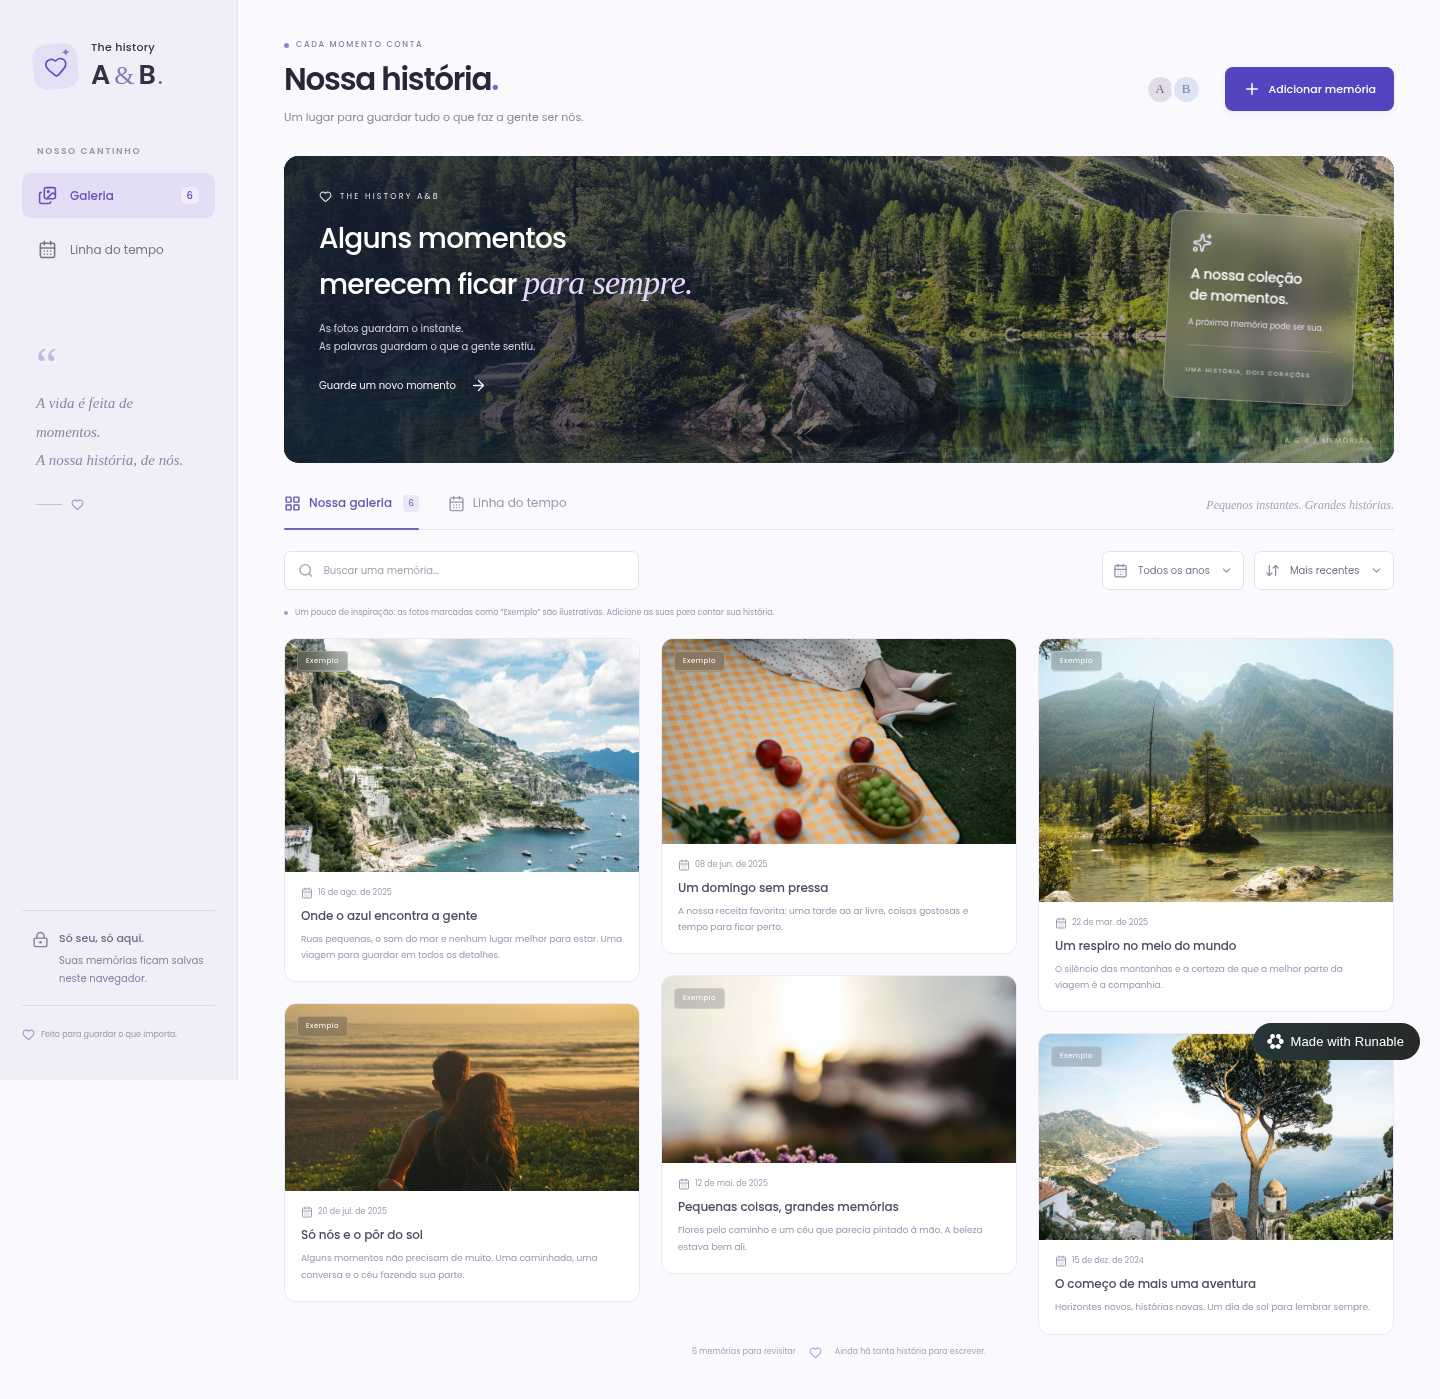
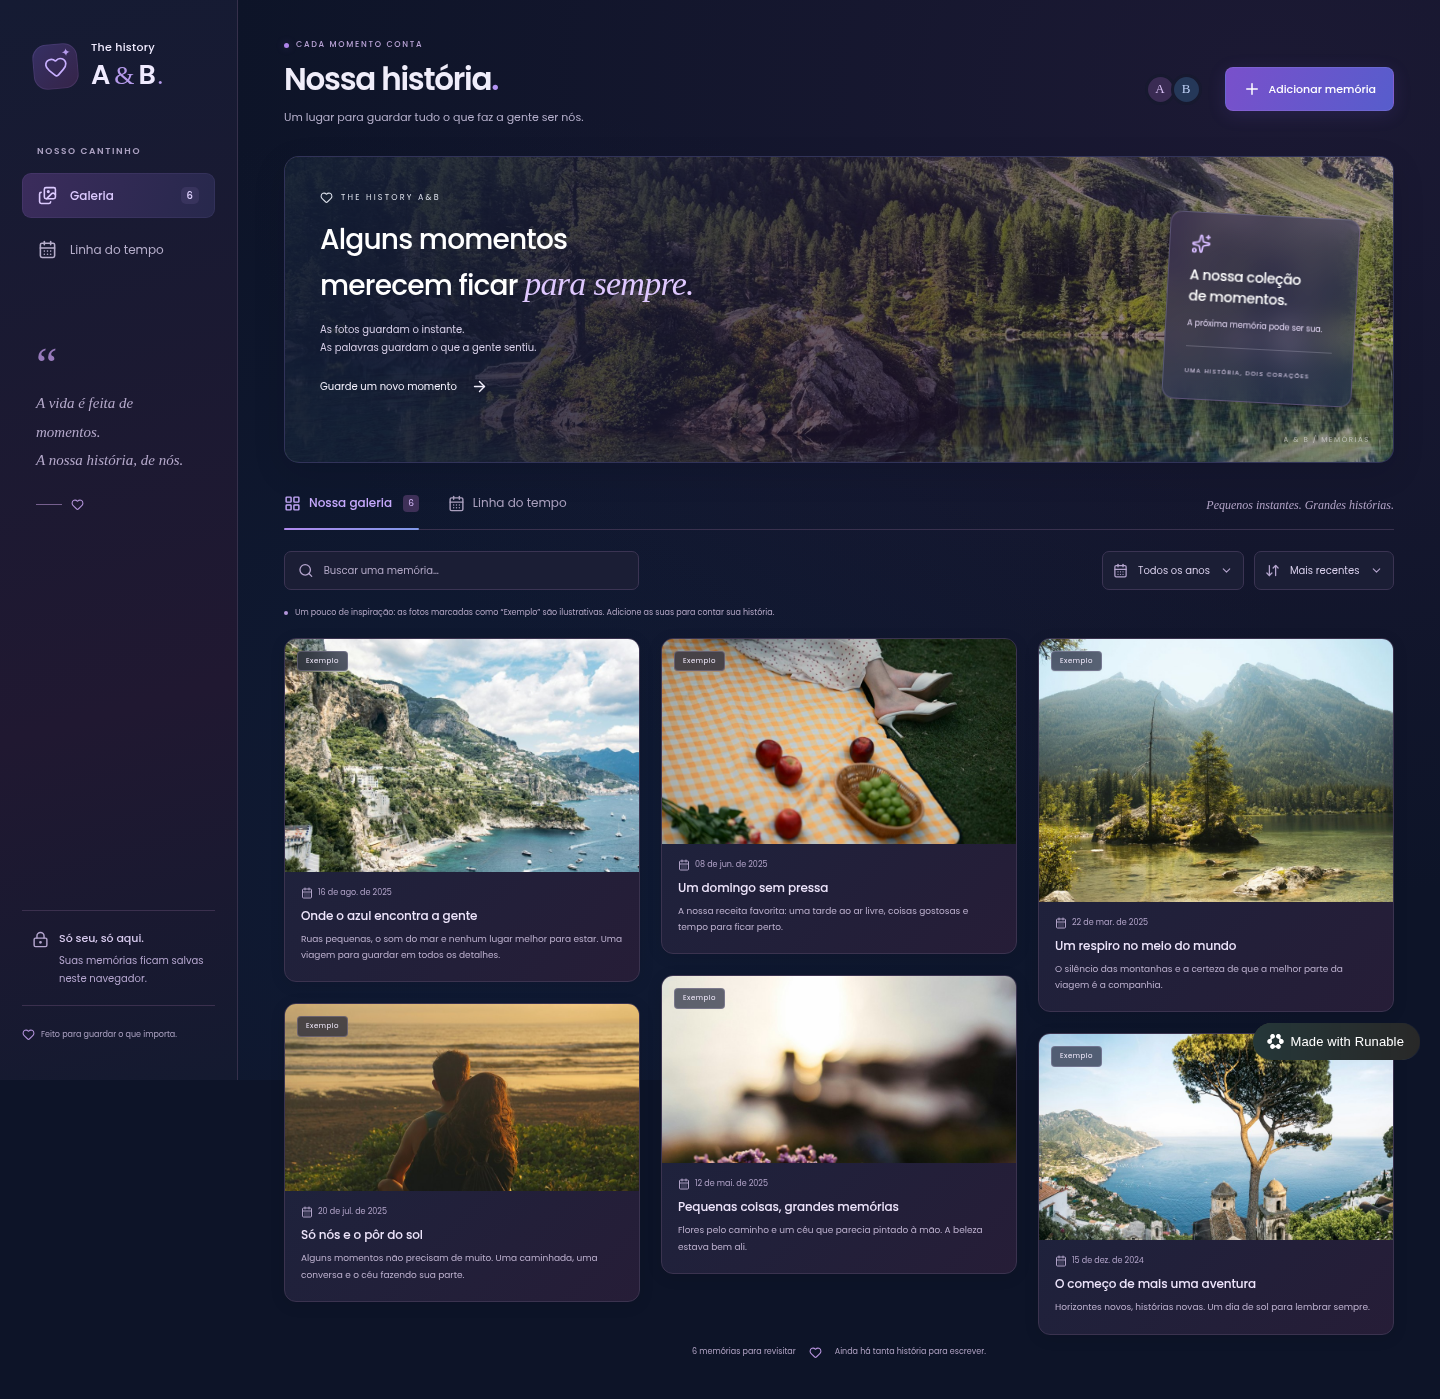
Update from Runable

diff --git a/packages/web/src/web/styles.css b/packages/web/src/web/styles.css
@@ -308,3 +308,144 @@ form textarea{resize:vertical;min-height:110px;line-height:1.8}
 @media(max-width:920px){.gallery{columns:2}.hero-note{display:none}.page-header p{font-size:10px}.main-content{padding:30px 24px}.page-header{gap:12px}.add-button{font-size:10px;padding:11px}.header-eyebrow{font-size:7px}.hero{height:290px}.toolbar{gap:10px}.search-input{width:100%;flex:1}.filter-group{gap:7px}.select-wrap{padding:0 7px}.select-wrap>svg:first-child{display:none}.timeline-card>img,.timeline-placeholder{width:125px}.timeline-card>div:not(.timeline-placeholder){padding:18px}.timeline-card h3{font-size:13px}.collection-tabs{gap:24px}}
 @media(max-width:680px){.sidebar{position:relative;inset:auto;width:100%;height:auto;padding:17px 20px 0;border-right:0;border-bottom:1px solid #e6e0ee;flex-direction:row;align-items:center;justify-content:space-between;gap:18px;background:#f0edf7}.brand{gap:8px;padding:0;margin-bottom:15px}.brand-mark{width:32px;height:32px;border-radius:10px}.brand-mark>svg{width:20px}.brand-spark{font-size:12px;right:3px}.brand>div>span{font-size:8px}.brand strong{font-size:21px;line-height:1.2}.brand strong>span{font-size:20px}.sidebar-section,.sidebar-quote,.sidebar-bottom{display:none}.main-nav{flex-direction:row;gap:13px;align-self:stretch}.main-nav button{padding:0 0 15px;align-self:flex-end;border-radius:0;gap:6px;font-size:10px}.main-nav button.active{background:none;border-bottom:2px solid #8c71c4;margin-bottom:-1px}.main-nav button>svg{width:15px}.nav-count{display:none}.main-content{margin-left:0;padding:26px 20px}.page-header{margin-bottom:23px;align-items:flex-start}.page-header h1{font-size:27px;margin-bottom:7px}.header-eyebrow{font-size:6px}.page-header p{font-size:9px;max-width:200px;line-height:1.8}.header-actions{padding-top:21px}.add-button{font-size:0;gap:0;padding:11px;width:39px;height:39px}.add-button svg{width:19px}.hero{height:288px;border-radius:12px}.hero-copy{left:24px;top:29px}.hero h2{font-size:24px;line-height:1.45}.hero h2 em{font-size:29px}.hero-kicker{font-size:7px}.hero-copy p{font-size:10px}.hero-copy>button{margin-top:21px;font-size:9px}.hero-shade{background:linear-gradient(90deg,#172841db,#17284162)}.hero-corner{font-size:6px;right:16px;bottom:13px}.collection{margin-top:27px}.collection-tabs{gap:26px}.collection-tabs button{font-size:11px;gap:6px;padding-bottom:14px}.collection-tabs button svg{width:15px}.toolbar{flex-wrap:wrap;margin:17px 0 12px;gap:10px}.search-input{max-width:none;flex-basis:100%;height:39px}.filter-group{width:100%;justify-content:space-between;gap:12px}.select-wrap{flex:1;padding:0 10px;justify-content:space-between;height:35px}.select-wrap>svg:first-child{display:block}.select-wrap select{flex:1;font-size:9px}.example-note{font-size:7px;margin-bottom:15px;align-items:flex-start}.example-dot{margin-top:4px}.gallery{column-gap:12px}.memory-card{margin-bottom:13px;border-radius:9px}.photo-wrap{height:178px}.card-1 .photo-wrap,.card-3 .photo-wrap{height:135px}.card-2 .photo-wrap{height:158px}.card-4 .photo-wrap{height:190px}.card-5 .photo-wrap{height:145px}.card-copy{padding:11px}.card-copy h3{font-size:10px;line-height:1.5;margin-top:6px}.card-copy p{font-size:8px;line-height:1.7}.card-date{font-size:7px;gap:4px}.card-date svg{width:10px}.photo-example{top:8px;left:8px;font-size:6px;padding:3px 6px}.collection-footer{gap:8px;font-size:6px;flex-wrap:wrap;margin-top:8px}.collection-footer svg{width:10px}.toast{left:50%;bottom:18px;max-width:calc(100vw - 30px);font-size:10px;padding:12px}.timeline-row{gap:25px;padding-bottom:19px}.timeline-date{width:36px}.timeline-date strong{font-size:19px}.timeline-date span{font-size:9px}.timeline-row:before{left:48px}.timeline-dot{left:43px}.timeline-year{margin-left:61px;font-size:19px;padding-bottom:15px}.timeline-card{flex-direction:column;border-radius:9px}.timeline-card>img,.timeline-placeholder{width:100%;height:150px;min-height:0}.timeline-card>div:not(.timeline-placeholder){padding:15px;width:100%}.timeline-card h3{font-size:12px}.timeline-card p{font-size:9px}.timeline-more{font-size:8px}.modal-inner{padding:21px}.modal-header h2{font-size:19px}.modal-header .eyebrow{font-size:6px}.form-row{flex-direction:column;gap:17px}.form-row>.date-field{flex:auto}.memory-dialog{max-height:calc(100dvh - 24px)}.upload-area{height:150px}.detail-date{font-size:9px;flex-wrap:wrap}.detail-text{font-size:11px}.modal-actions{gap:8px}.modal-actions .primary-button,.modal-actions .secondary-button,.modal-actions .danger-button{font-size:10px;padding:11px}.no-image span{font-size:11px;text-align:center;padding:0 8px}}
 @media(prefers-reduced-motion:reduce){*,*:before,*:after{animation:none!important;transition:none!important;scroll-behavior:auto!important}}
+
+/* Midnight palette — navy and deep purple, across every screen and state. */
+:root{
+  color-scheme:dark;
+  --background:#0d1428;
+  --foreground:#f0edfa;
+  --card:#1b2039;
+  --card-foreground:#f0edfa;
+  --popover:#1b2039;
+  --popover-foreground:#f0edfa;
+  --primary:#7654d9;
+  --primary-foreground:#fff;
+  --secondary:#28243e;
+  --secondary-foreground:#d9d2ee;
+  --muted:#25243a;
+  --muted-foreground:#b5afcb;
+  --accent:#30264c;
+  --accent-foreground:#dfd2ff;
+  --destructive:#a73354;
+  --border:#38334f;
+  --input:#38334f;
+  --ring:#aa8af1;
+  --sidebar:#14172d;
+  --sidebar-foreground:#d9d2ee;
+  --sidebar-primary:#b59af7;
+  --sidebar-primary-foreground:#fff;
+  --sidebar-accent:#30264c;
+  --sidebar-accent-foreground:#dfd2ff;
+  --sidebar-border:#38334f;
+  --sidebar-ring:#aa8af1;
+  --lavender:#30264c;
+}
+body{
+  color:var(--foreground);
+  background:radial-gradient(ellipse at 88% 8%,#39234b55,transparent 58%),radial-gradient(ellipse at 35% 80%,#182e5940,transparent 62%),#0d1428;
+  background-attachment:fixed;
+  scrollbar-color:#514368 #12172b;
+}
+::selection{background:#7955b7;color:#fff}
+button:focus-visible,a:focus-visible{outline-color:#b998ff}
+input:focus,select:focus,textarea:focus{outline-color:#9d83e4}
+.sidebar{background:linear-gradient(165deg,#151b33 0%,#201831 65%,#141a30 100%);border-color:#36304b}
+.brand{color:#f0ebff}
+.brand-mark{background:linear-gradient(140deg,#363064,#352448);color:#c8afff;box-shadow:inset 0 0 0 1px #a992de22}
+.brand-spark,.brand strong>span,.brand strong .brand-dot{color:#b59aeb}
+.sidebar-section{color:#aaa0c0}
+.main-nav button{color:#b6aecb}
+.main-nav button:hover{background:#302746;color:#ede5ff}
+.main-nav button.active{background:linear-gradient(105deg,#3b2c5c,#27284c);color:#dccaff;box-shadow:inset 0 0 0 1px #b194ed16}
+.nav-count{background:#63518744;color:#e0d2ff}
+.sidebar-quote{color:#b5a9cb}
+.quote-mark{color:#977abb}
+.sidebar-quote>svg,.little-heart{color:#b091d7}
+.quote-line{background:#76608e}
+.local-box{border-color:#3b304e;color:#b5a6cf}
+.local-box strong{color:#d6c9ed}
+.sidebar-signature{color:#aaa0c0}
+.eyebrow{color:#b9a3d6}
+.header-eyebrow span{background:#ae84ea;box-shadow:0 0 8px #ae84ea45}
+h1>span{color:#b494f4}
+.page-header p{color:#b5afcb}
+.avatars span{background:#3a2b53;color:#d7bff4;border-color:#17192f}
+.avatars span+span{background:#253859;color:#bed0f5}
+.primary-button{background:linear-gradient(115deg,#7950cb,#575dcc);box-shadow:0 4px 18px #7250cd28;border-color:#bda9f02b}
+button:hover:not(:disabled).primary-button{background:linear-gradient(115deg,#8c63de,#6572dc);box-shadow:0 5px 22px #7250cd40}
+.secondary-button{background:#2b2641;color:#dfd3ef;border-color:#4b3f61}
+.secondary-button:hover{background:#3a2f52}
+.danger-button{background:#a73354;border-color:#d47a9733}
+.danger-button:hover{background:#bb4267}
+.hero{background:#182242;border:1px solid #8b72ab38;box-shadow:0 10px 32px #05091724}
+.hero-shade{background:linear-gradient(100deg,#111c35ef 0%,#241837a6 56%,#23284b52 100%)}
+.hero h2 em{color:#dfc8ff}
+.hero-copy p{color:#d7cfe8}
+.hero-note{background:linear-gradient(140deg,#3d2e5d9c,#1d325a85);border-color:#c0a6e544;box-shadow:0 8px 25px #0b0c252d}
+.hero-note>span,.hero-note small{color:#e2d6f3}
+.hero-note>svg{color:#d6bbff}
+.collection-heading{border-color:#39314e}
+.collection-tabs button{color:#aaa0be}
+.collection-tabs button.selected{color:#c6a9fc}
+.collection-tabs button.selected:after{background:linear-gradient(90deg,#b08aee,#8098e9)}
+.collection-tabs small{background:#3e3058;color:#d5bafa}
+.collection-caption{color:#b2a3c6}
+.search-input,.select-wrap{background:#1b1e35;border-color:#3b3453;color:#b5a5ce}
+.search-input input,.select-wrap select{color:#d8cfeb}
+.search-input input::placeholder{color:#b1a7c5}
+.search-input:focus-within{outline-color:#9980d2}
+.select-wrap select option{background:#20213b;color:#e0d7f0}
+.example-note{color:#b2a5c4}
+.example-dot{background:#b496db}
+.memory-card{background:linear-gradient(135deg,#1b243e,#261d37);border-color:#3b334f;box-shadow:0 3px 15px #080b171a}
+.memory-card:hover{border-color:#695180;box-shadow:0 9px 28px #070a1d55}
+.photo-wrap{background:#26203e}
+.photo-example{background:#171c35aa;border-color:#d7c3f23b;color:#f4edff}
+.photo-open{background:#30234be6;color:#ddc7ff;box-shadow:0 2px 8px #0b0b2440}
+.card-date{color:#b1a3c8}
+.card-copy h3,.timeline-card h3{color:#eee5fc}
+.card-copy p,.timeline-card p{color:#bcb0ce}
+.no-image,.timeline-placeholder,.detail-no-image{background:linear-gradient(135deg,#1f2c4b,#342044);color:#c7a8ee}
+.collection-footer{color:#afa1c2}
+.collection-footer svg{color:#b693dd}
+.timeline-year{color:#c0a0ee}
+.timeline-row:before{background:linear-gradient(#796098,#3c3f66)}
+.timeline-date{color:#bca4d9}
+.timeline-dot{border-color:#17172c;background:#b18fe3;box-shadow:0 0 0 1px #725a96}
+.timeline-card{background:linear-gradient(120deg,#1c263f,#271e38);border-color:#3b334f}
+.timeline-card:hover{border-color:#695180;box-shadow:0 8px 25px #070a1d55}
+.timeline-more{color:#c0a1f1}
+.empty-state{color:#b699dc}
+.empty-state h3{color:#e3d6f4}
+.empty-state p{color:#b9adca}
+.empty-icon{background:linear-gradient(140deg,#273452,#3a2451)}
+.memory-dialog{color:#f0e6fc;background:linear-gradient(135deg,#19243d,#261b35);border-color:#655077;box-shadow:0 25px 100px #03071599}
+.memory-dialog::backdrop{background:#070b1ecc}
+.icon-button{background:#3b2b51;color:#d7bdf5}
+.icon-button:hover{background:#4e386b}
+.upload-area{background:linear-gradient(135deg,#23304b,#332144);color:#ceafea;border-color:#736086}
+.upload-area.has-image{color:white;background:#20223c}
+.upload-area.has-image:before{background:#16152c88}
+form label{color:#d0bee1}
+form input:not([type=file]),form textarea{background:#171b31;color:#ebe0f7;border-color:#51415f}
+form input::placeholder,form textarea::placeholder{color:#b1a0c3}
+.modal-actions{border-color:#493854}
+.form-note{color:#baa3ca}
+.error{background:#432538;border-color:#875068;color:#ffd0dc}
+.detail-image{background:#12172b}
+.detail-date{color:#c3a5df}
+.example-label{background:#47315f;color:#e1c2fd}
+.detail-text{color:#d0bfdc}
+.delete-link{color:#efa4bf}
+.delete-link:hover{color:#ffccde}
+.delete-panel>svg{color:#ed9db6}
+.delete-panel p{color:#d9bbd0}
+.back-link{color:#c9a9e1}
+.toast{background:linear-gradient(110deg,#24253e,#372347);border-color:#745286;color:#ecdef7;box-shadow:0 8px 30px #060a2255}
+.toast>svg{color:#b8dbcf}
+.toast button{color:#d4b8e9}
+@media(max-width:680px){
+  .sidebar{background:linear-gradient(110deg,#161f37,#291c3a);border-color:#41324f}
+  .main-nav button.active{background:none;box-shadow:none;border-bottom-color:#bd94f1}
+  .hero-shade{background:linear-gradient(100deg,#121f39ed,#2c1d4099)}
+}

diff --git a/design.md b/design.md
@@ -1,8 +1,6 @@
 # The history A&B — Design
 
-> Starter design brief. Replace this content with the app you're building before writing any UI.
-> Keep it short and concrete — it's the single source of truth for palette, typography, pages,
-> screens, and flows across web, mobile, and desktop.
+Direção atual aprovada: mesclagem de roxo e azul-escuro em todo o site, preservando modernidade, elegância, layout, imagens e funcionalidades.
 
 Galeria e linha do tempo pessoal, web responsiva, em português e sem login. Editorial afetivo e contemporâneo. Fotos, datas, títulos e textos editáveis, armazenados apenas neste navegador via IndexedDB. Nenhuma funcionalidade além da proposta aprovada.
 
@@ -15,17 +13,18 @@ One token set, consumed per platform:
 
 | Token | Light | Dark | Use |
 |-------|-------|------|-----|
-| primary | #5344BF | #5344BF | Buttons, active tab, accents |
-| background | #FAF9FE | #FAF9FE | Page/screen background |
-| card | #FFFFFF | #1A1A1A | Cards, surfaces |
-| foreground | #171717 | #FAFAFA | Primary text |
-| mutedForeground | #737373 | #A3A3A3 | Secondary text |
-| border | #E5E5E5 | #262626 | Hairlines |
-| destructive | #DC2626 | #EF4444 | Delete / errors |
+| primary | #7654D9 | #7654D9 | Buttons, active tab, accents |
+| background | #0D1428 | #0D1428 | Navy foundation with deep purple ambient gradients |
+| card | #1B2039 | #1B2039 | Navy-purple surfaces |
+| foreground | #F0EDFA | #F0EDFA | Primary text |
+| mutedForeground | #B5AFCB | #B5AFCB | Secondary text |
+| border | #38334F | #38334F | Subtle violet hairlines |
+| destructive | #A73354 | #A73354 | Delete / errors |
 
 ## Typography
 
-Poppins 400, 500, 600, 700 para interface e títulos; Georgia itálica para acentos editoriais. Fontes locais em public/fonts. Azul índigo e roxo pontuais sobre branco-lavanda. Sidebar 240px, conteúdo com respiro de 44px, hero horizontal fotográfico escuro e galeria em três colunas com alturas variadas. Bordas discretas, raios de 12–18px.
+Poppins 400, 500, 600, 700 para interface e títulos; Georgia itálica para acentos editoriais. Fontes locais em public/fonts. Base azul-marinho #0D1428 mesclada com roxo profundo #241936 em gradientes suaves. Sidebar escura, cartões azul-roxo, botões roxos com toques índigo. Texto branco-lavanda e secundários claros para contraste. Hero com fotografia original e sobreposição azul-roxa. Todos os estados, filtros, formulário, modal, exclusão e notificação seguem a mesma paleta. Sem alteração de estrutura ou dados.
+Sidebar 240px, conteúdo com respiro de 44px, hero horizontal fotográfico e galeria em três colunas com alturas variadas. Bordas discretas, raios de 12–18px.
 
 ## Pages & Screens
 

diff --git a/task.md b/task.md
@@ -5,5 +5,12 @@
  - [x] Build e lint aprovados. Testes Playwright: adicionar foto, compressão, persistência após reload, pesquisa sem acentos, edição, troca de foto, filtro por ano, linha do tempo, ordenação, cancelar exclusão, excluir e persistir exclusão, memória só texto, Escape e responsividade sem overflow. Zero erros JavaScript.
  - [x] Screenshots desktop e mobile revisadas.
  - [x] Servidor web ativo em 4200, pronto para entrega.
- - [ ] Entregar site na porta gerenciada.
+ - [x] Site inicial entregue na porta gerenciada.
  Decisão: nenhuma funcionalidade nova sem consultar usuário. Fotos de exemplo identificadas.
+
+ ## Atualização de paleta — solicitada pelo usuário
+ - [x] Aprovação explícita: mesclar roxo e azul-escuro pelo site todo, mantendo modernidade e elegância.
+ - [x] design.md atualizado antes da implementação.
+ - [x] Paleta aplicada à página, sidebar, hero, cartões, linha do tempo, botões, filtros, modal, formulários, estados de erro e notificações. Sem alteração de funcionalidades, fotos ou armazenamento.
+ - [x] Build e lint aprovados; suíte funcional passou com zero erros JavaScript. Desktop, mobile e modal revisados visualmente.
+ - [ ] Entregar atualização do site.
